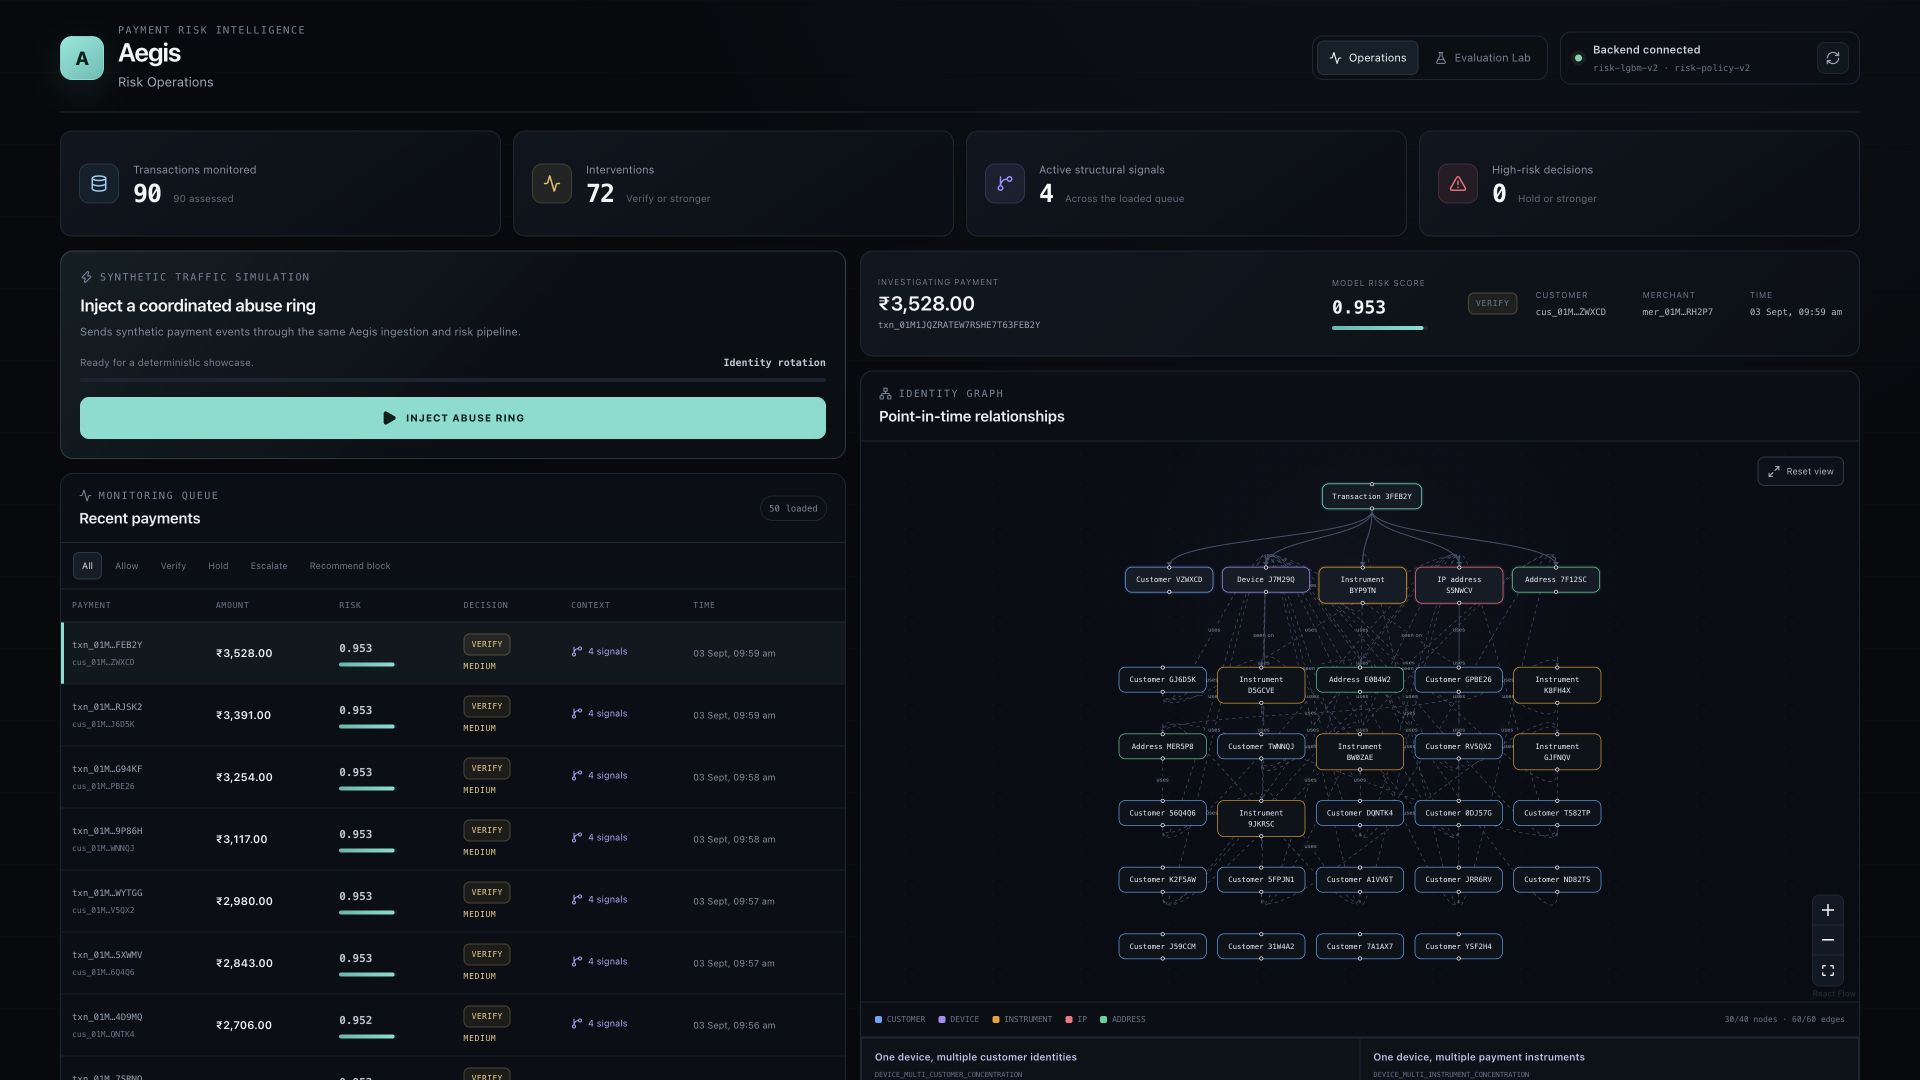
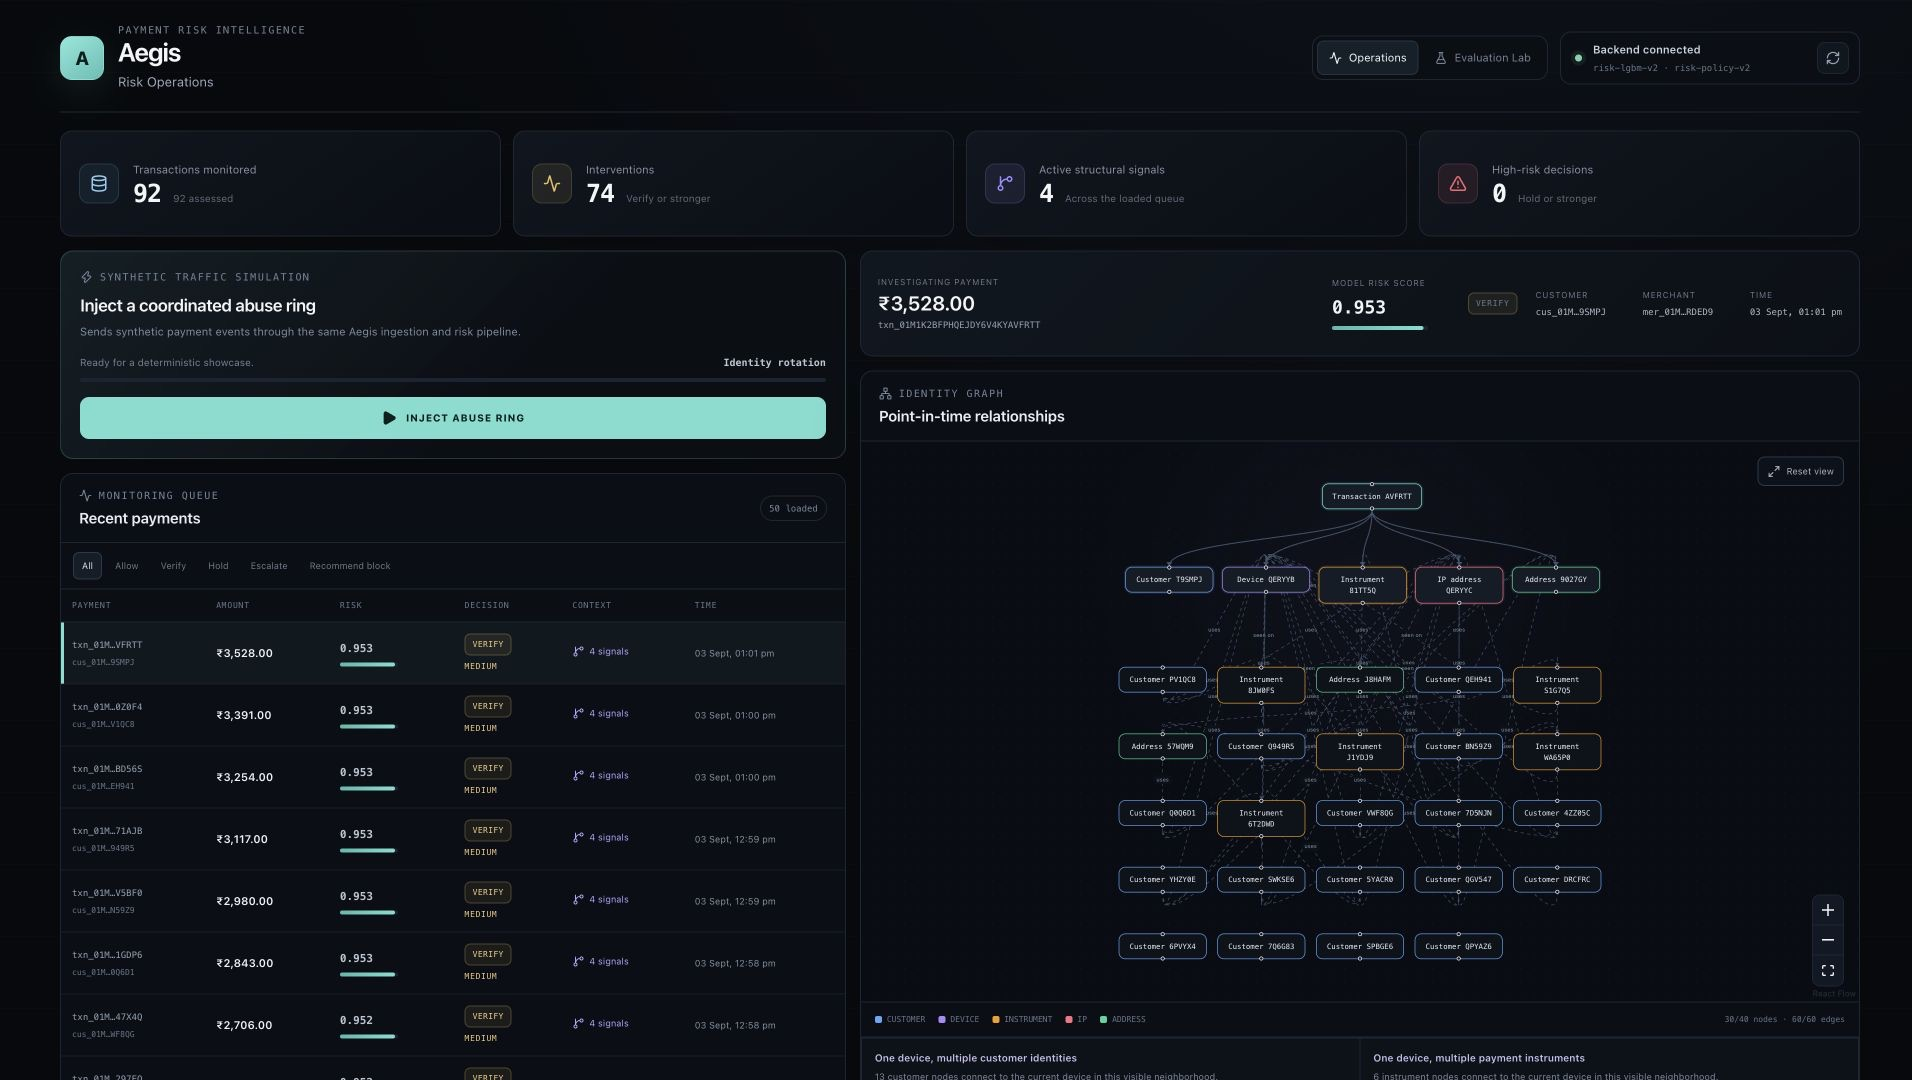
finalize Aegis product cohesion and release hardening

diff --git a/apps/web/src/components/dashboard.tsx b/apps/web/src/components/dashboard.tsx
@@ -278,7 +278,7 @@ function InvestigationPanel({
             <ArrowRight size={16} />
             <article><span>Policy band</span><strong>{report.model.score < report.policy.verify_threshold ? "ALLOW" : report.model.score < report.policy.hold_threshold ? "VERIFY" : "HOLD"}</strong><small>Score eligibility</small></article>
             <ArrowRight size={16} />
-            <article><span>Graph evidence</span><strong>{report.policy.graph_corroborated ? "Corroborated" : `${report.graph.signals.length} signals`}</strong><small>Kept separate</small></article>
+            <article><span>Structural signals</span><strong>{report.graph.signals.length} observed</strong><small>Evaluated separately</small></article>
             <ArrowRight size={16} />
             <article className="anatomy-action"><span>Final action</span><ActionBadge action={report.policy.action} /><small>Frozen policy result</small></article>
           </div>
@@ -379,6 +379,7 @@ export function Dashboard() {
   const [demoStatus, setDemoStatus] = useState("Ready for a deterministic showcase.");
   const [demoError, setDemoError] = useState<string | null>(null);
   const [demoRunning, setDemoRunning] = useState(false);
+  const dashboardRequestGeneration = useRef(0);
   const selectionRequestGeneration = useRef(0);
   const selectedOverrideRef = useRef<DashboardTransaction | null>(null);
   const entityRequestGeneration = useRef(0);
@@ -396,6 +397,7 @@ export function Dashboard() {
     preferredSelectedId?: string,
     filterOverride?: PolicyAction | null,
   ) => {
+    const requestGeneration = ++dashboardRequestGeneration.current;
     setSummaryLoading(true);
     setTransactionsLoading(true);
     setSummaryError(null);
@@ -404,6 +406,7 @@ export function Dashboard() {
       getDashboardSummary(),
       getTransactions(filterOverride === undefined ? filter : filterOverride),
     ]);
+    if (requestGeneration !== dashboardRequestGeneration.current) return;
     if (summaryResult.status === "fulfilled") {
       setSummary(summaryResult.value);
     } else {
@@ -582,7 +585,10 @@ export function Dashboard() {
 
   useEffect(() => {
     const task = window.setTimeout(() => void loadDashboard(), 0);
-    return () => window.clearTimeout(task);
+    return () => {
+      window.clearTimeout(task);
+      dashboardRequestGeneration.current += 1;
+    };
   }, [loadDashboard]);
   useEffect(() => {
     const task = window.setTimeout(() => void loadSelection(), 0);

diff --git a/scripts/smoke_submission.py b/scripts/smoke_submission.py
@@ -156,12 +156,34 @@ def run(base_url: str) -> dict[str, Any]:
     final_graph = request_json(
         base_url, "GET", f"/api/v1/transactions/{final_transaction_id}/graph"
     )
+    entity_node = next(
+        (node for node in final_graph["nodes"] if node.get("type") not in {None, "TRANSACTION"}),
+        None,
+    )
+    if entity_node is None:
+        raise AssertionError("simulation graph did not expose an operational entity")
+    entity_intelligence = request_json(
+        base_url,
+        "GET",
+        f"/api/v1/entities/{entity_node['type']}/{entity_node['id']}",
+    )
+    entity_network = entity_intelligence.get("network")
+    if (
+        entity_intelligence.get("view_semantics") != "CURRENT_OBSERVED_HISTORY"
+        or not isinstance(entity_network, dict)
+        or entity_network.get("max_nodes") != 40
+        or entity_network.get("max_edges") != 60
+        or len(entity_network.get("nodes", [])) > entity_network["max_nodes"]
+        or len(entity_network.get("edges", [])) > entity_network["max_edges"]
+    ):
+        raise AssertionError("entity intelligence response is not safe and bounded")
     dashboard = request_json(base_url, "GET", "/api/v1/dashboard/transactions?limit=50")
     assert_truth_free(
         {
             "final_step": final_step,
             "investigation": final_investigation,
             "graph": final_graph,
+            "entity_intelligence": entity_intelligence,
             "dashboard": dashboard,
         },
         "simulation_operation",
@@ -183,6 +205,7 @@ def run(base_url: str) -> dict[str, Any]:
             "graph_signal_count": final_step["assessment"]["graph_signal_count"],
         },
         "truth_exclusion": "passed",
+        "entity_intelligence": "passed",
         "evaluation_model": evaluation["benchmark"]["model_version"],
     }
 

diff --git a/apps/api/app/api/routes.py b/apps/api/app/api/routes.py
@@ -244,6 +244,11 @@ async def graph(public_id: str, session: Session) -> TransactionGraphResponse:
 @router.get(
     "/api/v1/entities/{entity_type}/{public_id}",
     response_model=EntityIntelligenceResponse,
+    summary="Get entity intelligence",
+    description=(
+        "Return the bounded, current observed history for a safe public entity identifier. "
+        "Transaction investigations remain point-in-time views."
+    ),
 )
 async def entity_intelligence_route(
     entity_type: EntityIntelligenceType,

diff --git a/README.md b/README.md
@@ -20,6 +20,9 @@ claim.
 
 ![Aegis Risk Operations dashboard](docs/assets/risk-operations.jpg)
 
+Risk Operations brings the live payment queue, selected-payment context, and point-in-time
+relationship graph into one operator workspace.
+
 ## Why transaction-only risk can miss the pattern
 
 Each payment below can look plausible on its own. The shared infrastructure is suspicious only
@@ -164,20 +167,35 @@ The dashboard combines an assessed-payment queue, model/action context, an inter
 graph, named graph signals, and a selected-payment investigation. Loading, empty, pending, and
 disconnected states remain explicit rather than fabricating data.
 
-### Investigation
+### Decision Intelligence
 
-![Aegis evidence-first investigation](docs/assets/investigation.jpg)
+![Aegis Decision Intelligence investigation](docs/assets/decision-intelligence.jpg)
 
-The report keeps the uncalibrated model score, graph score, deterministic policy action, ranked
-evidence, recommended next step, and strictly-prior timeline distinct. Explanations describe why
-the frozen policy acted; they do not revise that action or expose synthetic truth.
+Decision Intelligence keeps the uncalibrated model risk score, structural coordination score,
+frozen Policy Action, ranked Evidence, and recommended next step distinct. Its policy-band view
+answers both **why this action** and **why not stronger**, while the provenance trace and
+strictly-prior timeline show exactly what was available at decision time.
+
+### Entity Intelligence
+
+![Aegis Entity Intelligence network explorer](docs/assets/entity-intelligence.jpg)
+
+Start from a payment and pivot into a customer, device, payment instrument, IP, or address. The
+bounded one-hop network supports further entity pivots and related-payment inspection, then returns
+the operator to normal historical Decision Intelligence for the selected payment.
+
+These views intentionally answer different questions: a transaction investigation is a historical
+point-in-time snapshot using `event_time < selected transaction`, while Entity Intelligence shows
+the entity's **current observed persisted history**. Current network counts are never presented as
+facts that were known at an older payment's decision time.
 
 ### Evaluation Lab
 
 ![Aegis Evaluation Lab](docs/assets/evaluation-lab.jpg)
 
 The Evaluation Lab presents committed artifact data: tabular versus graph versus combined models,
-external generalization, operating-policy constraints, provenance, and known limitations.
+external generalization, operating-policy constraints, provenance, and known limitations—without
+recomputing or improving the frozen results at runtime.
 
 ## Measured evaluation
 
